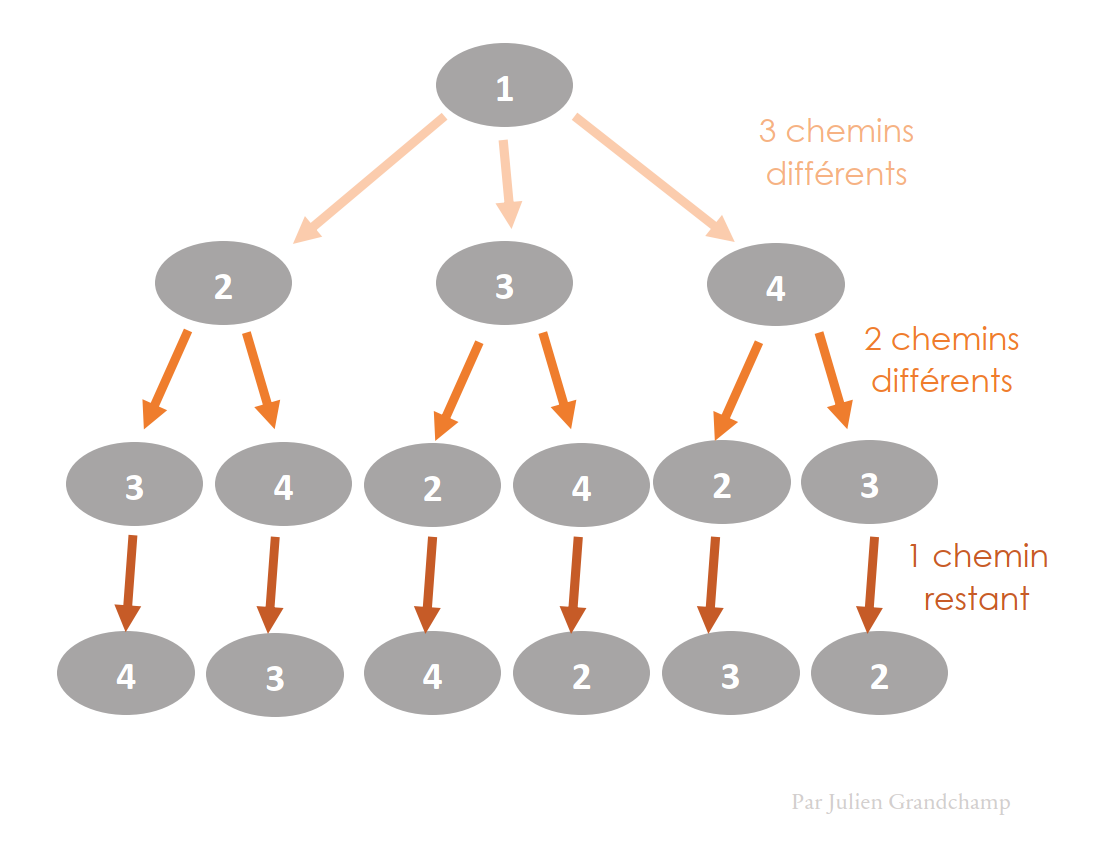
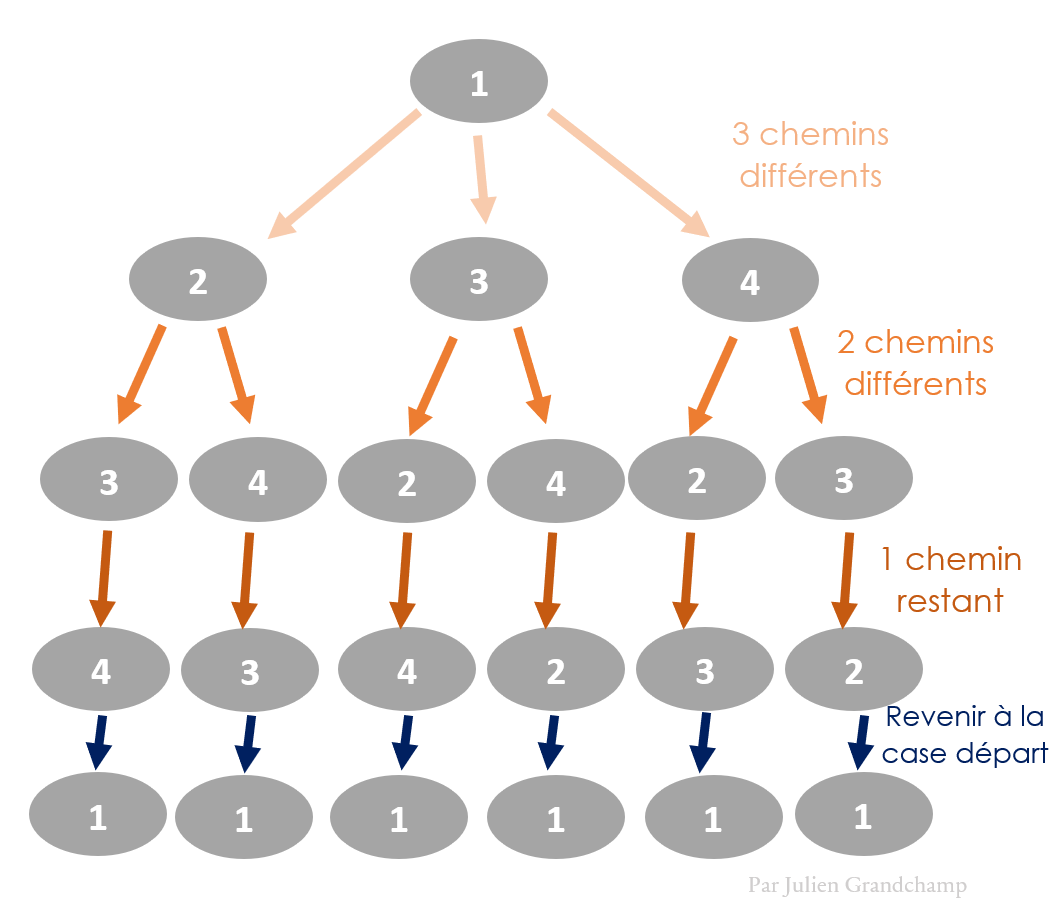
continuation chapitre 2

Changed region(s): [[0.031, 0.0302, 0.9934, 0.9954], [0.683, 0.1206, 0.8382, 0.2111]]

diff --git a/source/chapitre-02.md b/source/chapitre-02.md
@@ -8,32 +8,50 @@ William Rowan Hamilton posa l’une des première fois le problème du voyageur 
 
 
 ## Méthode de résolution exacte naïve
-Il est actuellement impossible de trouver une résolution exacte à ce problème pour un grand nombre de villes, car la complexité est exponentielle. Regardons cela ensemble par une approche de résolution exacte naïve, en pratiquant une recherche exhaustive de tous les chemins possibles :
+Il est actuellement impossible de trouver une résolution exacte à ce problème pour un grand nombre de villes, car la complexité est exponentielle. Regardons cela ensemble par une approche de résolution exacte naïve, en pratiquant une recherche exhaustive de tous les chemins possibles.
+
+### Résolution intuitive du problème
 1.	Posons $n$ points, qui représentent des villes. 
+
+
 ```{figure} figures/schema_1.png
 ---
 align: center
 width: 50%
 ---
+*Emplacement des différentes villes.*
 ```
+
+
 2.	Il existe alors $n!$ chemins possibles, car on ne peut passer qu’une seule fois dans chaque ville. 
 3.	Le point de départ n’influençant pas la longueur totale du trajet, on se retrouve avec $(n-1)!$ chemins différents. 
+
+
 ```{figure} figures/schema_2.png
 ---
 align: center
 width: 60%
 ---
+*Explication visuelle de la manière dont nous obtenons $(n-1)!$ chemins différents.*
 ```
+
+
 4.	Enfin, étant donné qu’on peut parcourir le chemin dans les deux sens sans modifier la longueur du trajet total, on peut diviser encore l’expression par deux. Par exemple, pour les quatre villes a,b,c,d, les paires de chemins abcd et dcba, cdab et badc, *etc.* ont la même longueur. 
 Ainsi, on obtient $\frac{(n-1)!}{2}$  chemins candidats à considérer pour obtenir la bonne réponse.
+
+
 ```{figure} figures/schema_3.png
 ---
 align: center
 width: 60%
 ---
+*Nous pouvons observer que les deux chemins opposés du schéma possèdent la même distance. Ceci est naturellement valable pour tout trajet opposé.*
 ```
 
+
+### Problème de cette pratique
 Le problème est que les résultats obtenus par l’expression mathématique $\frac{(n-1)!}{2}$ sont énormes compte tenu de la complexité du problème. Pour donner un exemple, pour un trajet comportant $71$ villes, le nombre de chemins à comparer pour obtenir le plus court trajet est de $5\cdot 10^{80}$ ! Cela devient très vite ingérable. 
+
 Pour illustrer cela par un autre exemple, admettons qu’un ordinateur est capable d’évaluer un trajet en une demi-microseconde. Alors, le problème du voyageur avec $5$ points est possible en $6$ microsecondes, le cas avec $10$ villes en $0.09$ secondes, mais le cas à $20$ villes prendrait $964$ ans à être calculé ! On ne peut ainsi pas calculer des techniques parfaites pour trouver le meilleur trajet, mais il est possible d’approximer cette réponse par d’autres techniques demandant moins de ressources.
 
 
@@ -46,87 +64,124 @@ Avant cela, il est important de définir certains termes qui vont avoir leur imp
 1.	Un **arbre de recherche** est un schéma représentant toutes les solutions possibles sous la forme d’embranchements. Un exemple de cet arbre se situe plus bas.
 2.	Pour cette méthode, il est aussi important de définir les bornes inférieures et supérieures.
 
-    Une **borne inférieure** est une valeur qui est égale ou inférieure à la valeur de la meilleure solution possible. Dans le cas présent, il suffit pour l’obtenir d’additionner le poids des $N$ distances les plus proches entre deux villes. Même si cette solution a une grande probabilité de ne pas être réalisable, la valeur de la solution optimale ne pourra pas être plus petite que la borne inférieure. 
+    Une **borne inférieure** est une valeur qui est égale ou inférieure à la valeur de la meilleure solution possible. Dans le cas présent, il suffit pour l’obtenir d’additionner au trajet déjà effectué le poids des $N$ distances les plus proches entre deux villes. Même si cette solution a une grande probabilité de ne pas être réalisable, la valeur de la solution optimale ne pourra pas être plus petite que la borne inférieure. 
 
     La **borne supérieure**, quant à elle, est une limite qu'aucune solution optimale ne pourra jamais dépasser. Dans ce cas, cette valeur est un trajet quelconque, car si on prend la mauvaise solution on obtient une valeur supérieure à celle qu’on recherche, et dans le cas généralement extrêmement rare où l’on obtient la bonne réponse, la bonne réponse n’est pas en-dessous de la borne supérieure choisie. Pour obtenir des résultats moins variables, on peut aussi utiliser des algorithmes approchés se basant sur des approximations.
 
 
 ### Formation d'un arbre de recherche
 Posons la situation suivante: 
+
+
 ```{figure} figures/schema_4.png
 ---
 align: center
 width: 50%
 ---
+*Admettons que nous souhaitons traverser de la manière la plus optimale possible les quatre villes affichées.*
 ```
+
+
 #### Etape par étape
 Pour commencer à créer un arbre de recherche, nous devons tout d'abord définir une ville de départ.
+
 
 ```{figure} figures/schema_4a.png
 ---
 align: center
 width: 10%
 ---
+*Nous définissons arbitrairement le noeud initial, car cela n'influence pas la longueur du trajet.*
 ```
-Nous appelons cette ville le **nœud initial**. Ensuite, il faut explorer tous les trajets possible. Pour cela, nous dessinons l'arbre de la manière suivante:
+
+
+Nous appelons cette ville le **nœud initial**. Ensuite, il faut explorer tous les trajets possibles. Pour cela, nous dessinons l'arbre de la manière suivante:
+
+
 ```{figure} figures/schema_4b.png
 ---
 align: center
 width: 40%
 ---
+*Sont affichées les destinations restantes possibles.*
 ```
-Cela veut dire qu'à partir de la ville $1$, nous pouvons nous diriger vers la ville $2$, $3$ ou $4$. À partir de là, pour respecter la consigne du problème du voyageur de commerce, nous pouvons uniquement nous diriger vers les noeuds($=\text{villes}$) sur lesquelles nous ne sommes pas déjà passés. Ainsi:
+
+
+Cela veut dire qu'à partir de la ville $1$, nous pouvons nous diriger vers la ville $2$, $3$ ou $4$. À partir de là, pour respecter la consigne du problème du voyageur de commerce, nous pouvons uniquement nous diriger vers les noeuds($=$ villes) sur lesquelles nous ne sommes pas déjà passés. Ainsi:
+
+
 ```{figure} figures/schema_4c.png
 ---
 align: center
 width: 50%
 ---
+*Nous continuons à procéder de la même manière pour chaque noeud.*
 ```
+
+
 Nous poursuivons le même processus jusqu'à ce que nous ayons visité chacune des villes. Nous obtenons enfin:
+
+
 ```{figure} figures/schema_4d.png
 ---
 align: center
 width: 50%
 ---
+*Arbre de recherche complété.*
 ```
+
+
 #### En résumé
 Pour conclure, nous pouvons résumer l'arbre de la manière suivante:
 
 Nous avons les villes $1$, $2$, $3$ et $4$. Nous partons d'une ville, définie provisoirement par $1$ (la longueur d'un trajet est aucunement influencée par le point de départ), que nous nommons le **nœud initial**. Nous avons alors trois possibilités de trajet, menant chacun à une des trois trois villes qui n'ont pas été visitée. Ces possibilités constituent les trois embranchements initiaux de l’arbre. Chacun des embranchements se sépare à son tour en deux embranchements pour les deux villes restantes (donc non-visitée), formant des nœuds possédant à nouveau des embranchements jusqu’à ce que cela ne soit plus possible. 
+
+
 ```{figure} figures/schema_5.png
 ---
 align: center
 width: 80%
 ---
+*Voici à quoi ressemble un arbre de recherche fini.*
 ```
+
 
 ### Réaliser la PSE
 À présent que cet arbre de recherche est formé et compris, il nous faut trouver le trajet optimal. C'est là que la PSE intervient.
 
 #### Etapes à réaliser
 Le principe de la PSE est de couper l’exploration de l’arbre à la hauteur de certains nœuds afin de réduire la quantité nécessaire de calculs pour trouver la réponse. Pour savoir quand couper la simulation, nous procédons de la manière suivante :
-1. Calculer la borne supérieure en additionnant toutes les distances et en multipliant par deux (car il faut revenir au point de départ). Cette borne est fixe.
-2. Calculer la borne inférieure en additionnant la distance entre la ville de départ et la ville la plus proche.
-3. Explorer toutes les options pour le prochain embranchement, en calculant la borne inférieure pour chacune de ces options.
-4. Couper les embranchements dont la borne inférieure est supérieure ou égale à la borne supérieure.
-5. Répéter les étapes 3, 4 et 5 jusqu'à ce qu'il ne reste qu'une seule ville non visitée.
-6. Trouver le chemin le plus court parmi toutes les configurations restantes.
+1. Calculer la borne supérieure en suivant un chemin au hasard ou par un algorithme approché. Cette borne est fixe, mais peut toutefois être actualisée lorsqu'un trajet plus court que ladite borne a été décelé.
+2. Explorer toutes les options pour le prochain embranchement, en calculant la borne inférieure pour chacune de ces options. Pour cela, on rajoute à la distance déjà parcourue les $x$ distances manquantes les plus courtes de l'embranchement.
+3. Couper les embranchements dont la borne inférieure est supérieure ou égale à la borne supérieure.
+4. Répéter les étapes 2, 3 et 4 jusqu'à ce que tous les embranchements soient complétés.
+5. Trouver le chemin le plus court parmi les configurations restantes.
 
 Cette méthode permet ainsi d'augmenter la rapidité des calculs, car permet de couper les branches inutiles à explorer. Cependant, ce n'est pas une méthode sufisamment efficace pour permettre de calculer le trajet optimal comportant le passage au travers d'un grand nombre de villes.
 
 #### Exemple
 Prenons les 3 villes suivantes ainsi que la distance les séparant:
+
+
 ```{figure} figures/schema_6.png
 ---
 align: center
 width: 70%
 ---
+*Les points oranges représentes les villes à travers lesquels nous souhaitons passer.*
 ```
+
+
 On peut alors constuire l'arbre de recherche suivant:
+
+
 ```{figure} figures/schema_7.png
 ---
 align: center
 width: 60%
 ---
+*L'arbre de recherche correspondant à la situation ci-dessus posée.*
 ```
-Dans cette notation, les chiffres en gras représentent la distance (souvent nommé "coût") entre deux noeuds. À partir de là, 
+
+
+Dans cette notation, les chiffres en gras représentent la distance (souvent nommé "coût") entre deux noeuds. À partir de là,

diff --git a/source/index.rst b/source/index.rst
@@ -8,7 +8,7 @@ Problème du voyageur de commerce
 =================================
 
 ..  toctree::
-    :maxdepth: 2
+    :maxdepth: 3
     :caption: Table des matières
 
     introduction.rst
